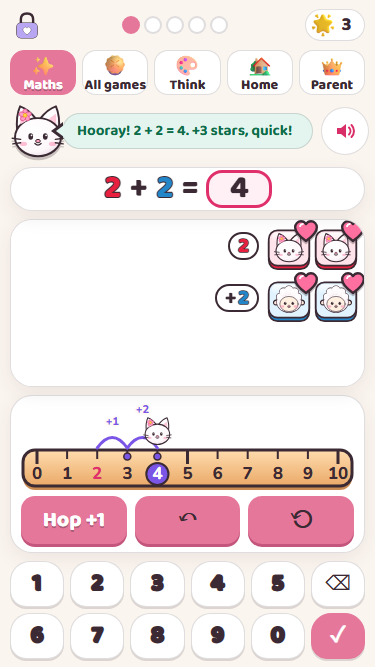
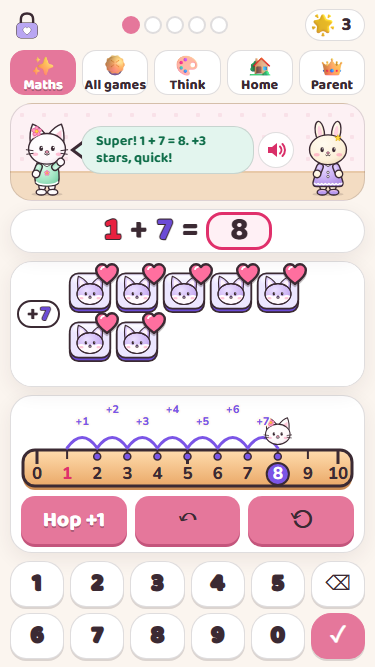
Parent preview of the play worlds: ?try=marie / ?try=kennedy (own practice save, 300 coins)
Claude-Session: https://claude.ai/code/session_016M47HnKbdwMuv2EeehMENn

diff --git a/game/index.html b/game/index.html
@@ -60,7 +60,10 @@ const PROFILES = {
   marie: { name: "Marie", theme: "cafe", world: "Kitty Café", old: "kittyBlocks.progress" },
   kennedy: { name: "Kennedy", theme: "castle", world: "Knight Castle", old: "kidsMaths.kennedy" }
 };
-const SAVE_KEY = w => "kidsMaths.game." + w;
+/* ?try=marie or ?try=kennedy: a parent preview of the play world. It uses its own practice save with spare coins,
+   so the children's real saves are never touched. */
+const TRY = new URLSearchParams(location.search).get("try");
+const SAVE_KEY = w => "kidsMaths.game." + (TRY ? "try_" : "") + w;
 let who = null, P = null, theme = "cafe";
 /* first time: copy the old app's save (engine progress, house, coins), then keep our own key; the old key is never written */
 function loadSave(w) {
@@ -695,7 +698,7 @@ addEventListener("resize", () => {
 addEventListener("pagehide", save);
 requestAnimationFrame(sizeDraw);
 drawDots(); mascot("stand");
-doors();
+if (TRY && PROFILES[TRY]) { start(TRY); P.coins = Math.max(P.coins, 300); save(); drawCoins(false); playWorld(); } else doors();
 window.__game = { get Q() { return Q; }, get QS() { return QS; }, get P() { return P; }, get set() { return set; }, M, start, doors,
   lesson() { if (!Q) return; closeBoard(); QS.tries = 1; return teach(); } };
 </script>
